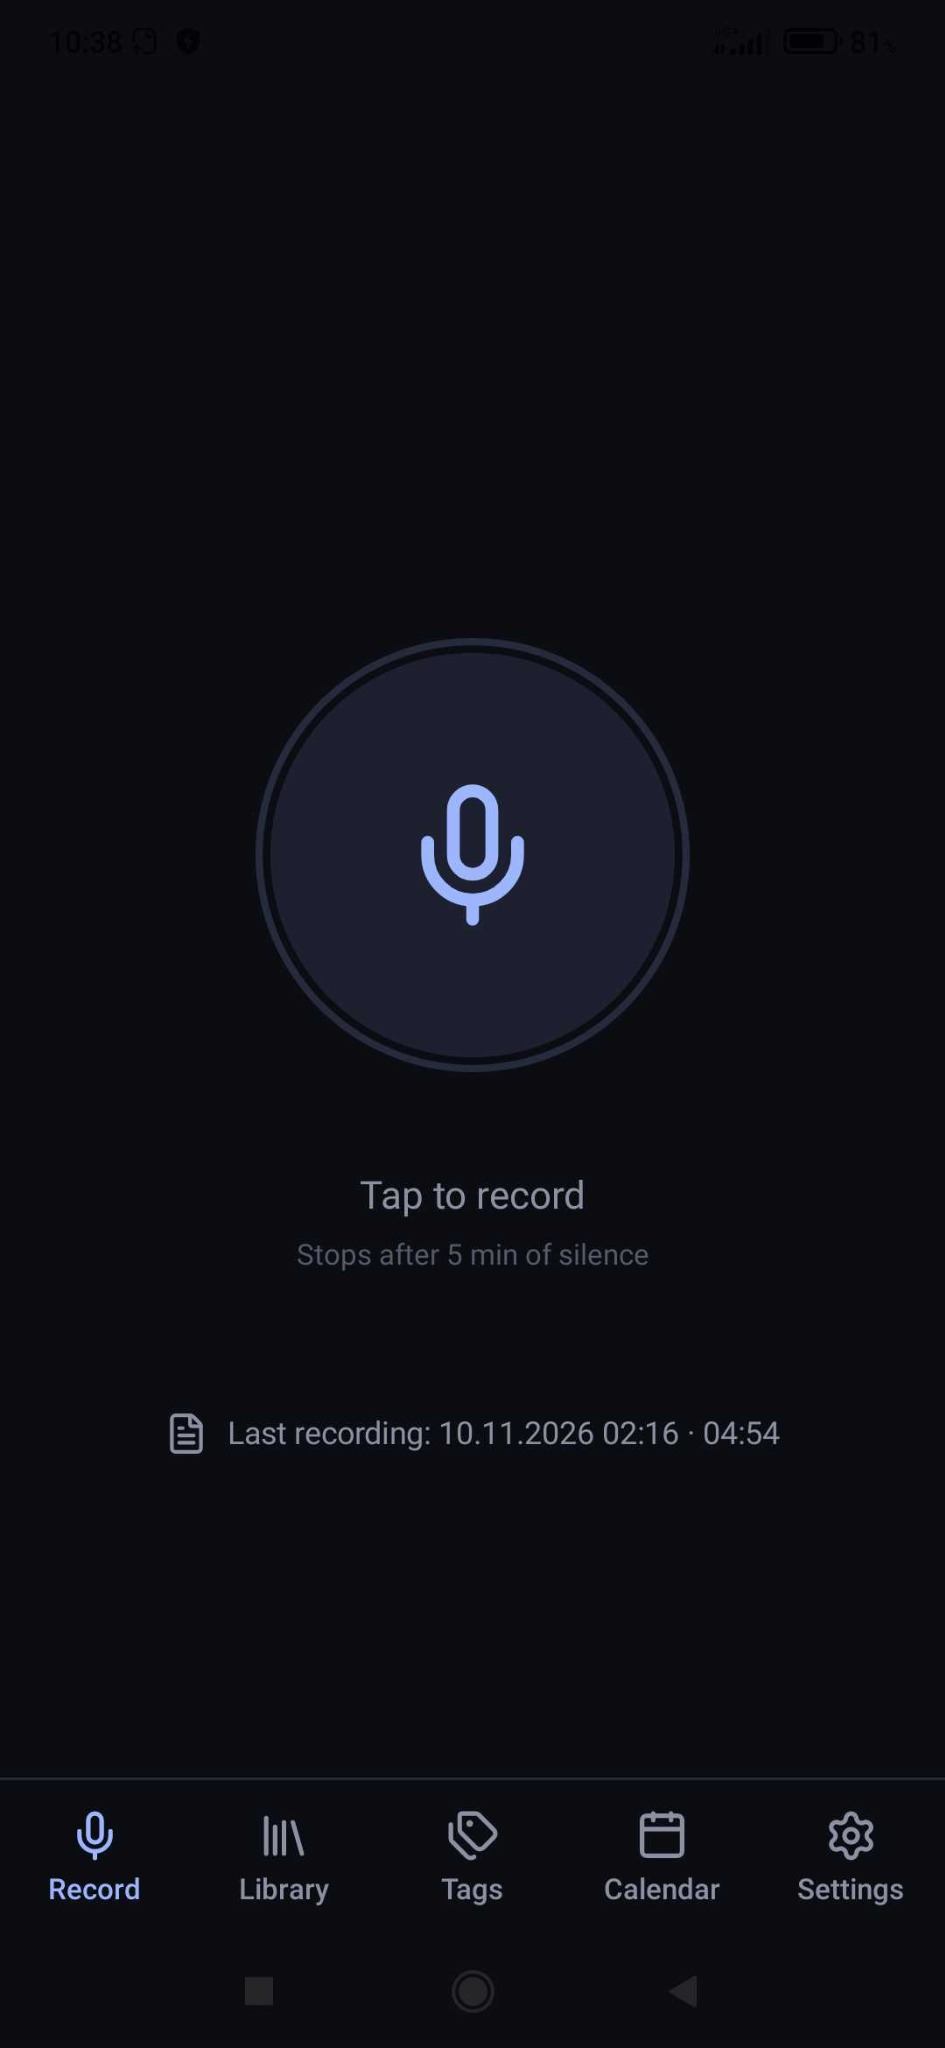
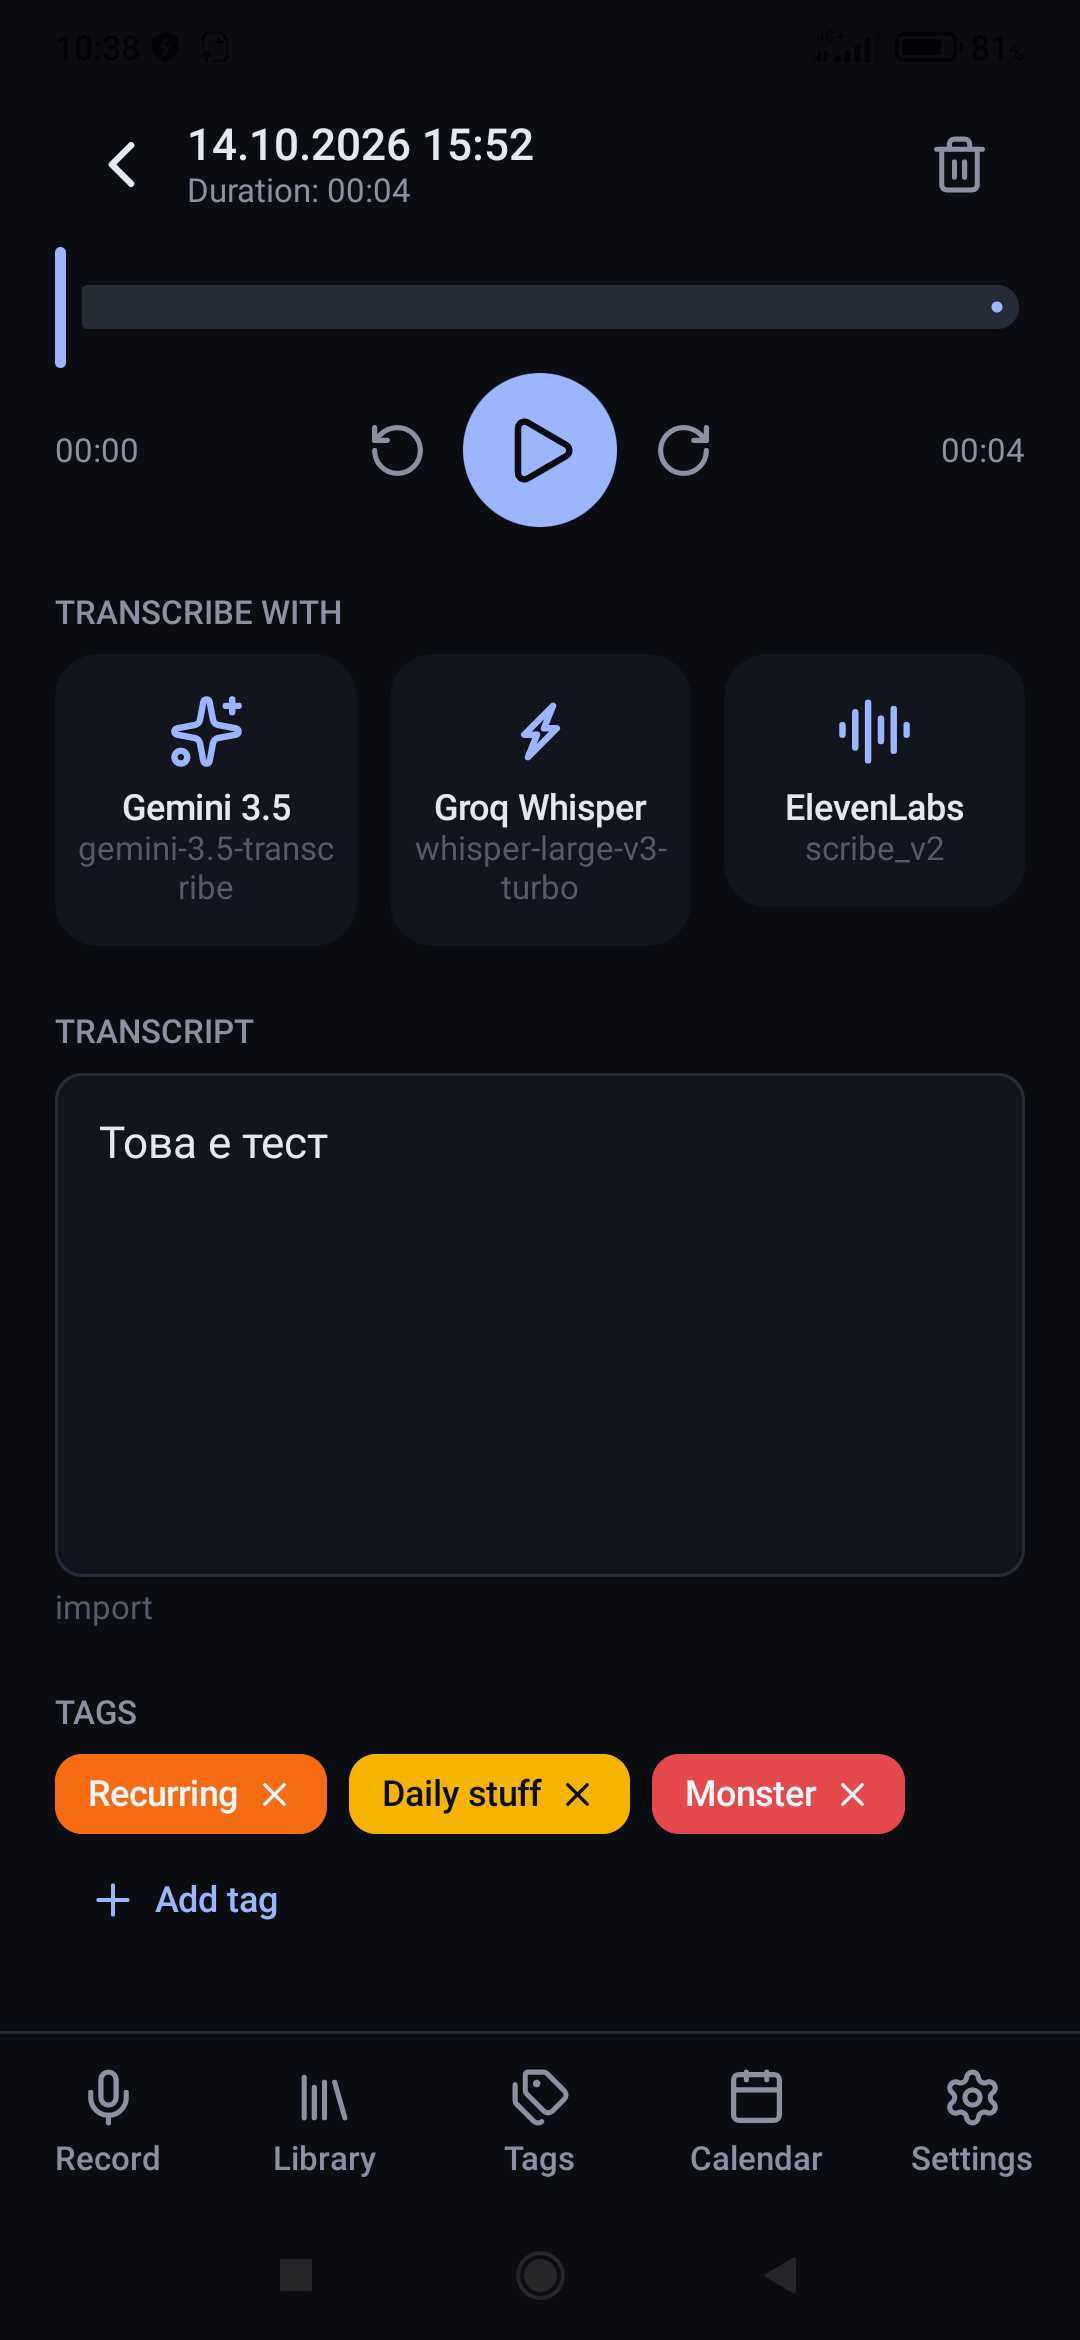
add more images

diff --git a/README.md b/README.md
@@ -16,13 +16,24 @@ Dream Records makes it easy to capture a dream as a voice note, revisit it later
 
 ## Screenshots
 
+<!-- Row 1: Recording, Calendar, Settings -->
 <p align="center">
-  <img src="docs/screenshots/record.jpg" width="220" alt="One-tap voice recording screen">
+  <img src="docs/screenshots/recording.jpg" width="220" alt="One-tap dream voice recorder">
   &nbsp;
-  <img src="docs/screenshots/calendar.jpg" width="220" alt="Calendar with dream entries and colored tag markers">
+  <img src="docs/screenshots/calendar.jpg" width="220" alt="Dream calendar with color-coded tags">
   &nbsp;
-  <img src="docs/screenshots/settings.jpg" width="220" alt="Language, recording timeout, and transcription settings">
+  <img src="docs/screenshots/settings.jpg" width="220" alt="Recording and AI transcription settings">
 </p>
+
+<!-- Row 2: Tags, Recording Details, Library -->
+<p align="center">
+  <img src="docs/screenshots/tags.jpg" width="220" alt="Custom tags and dream categories">
+  &nbsp;
+  <img src="docs/screenshots/record.jpg" width="220" alt="Audio playback and transcript editing">
+  &nbsp;
+  <img src="docs/screenshots/library.jpg" width="220" alt="Searchable dream recording library">
+</p>
+
 
 ## Features
 
